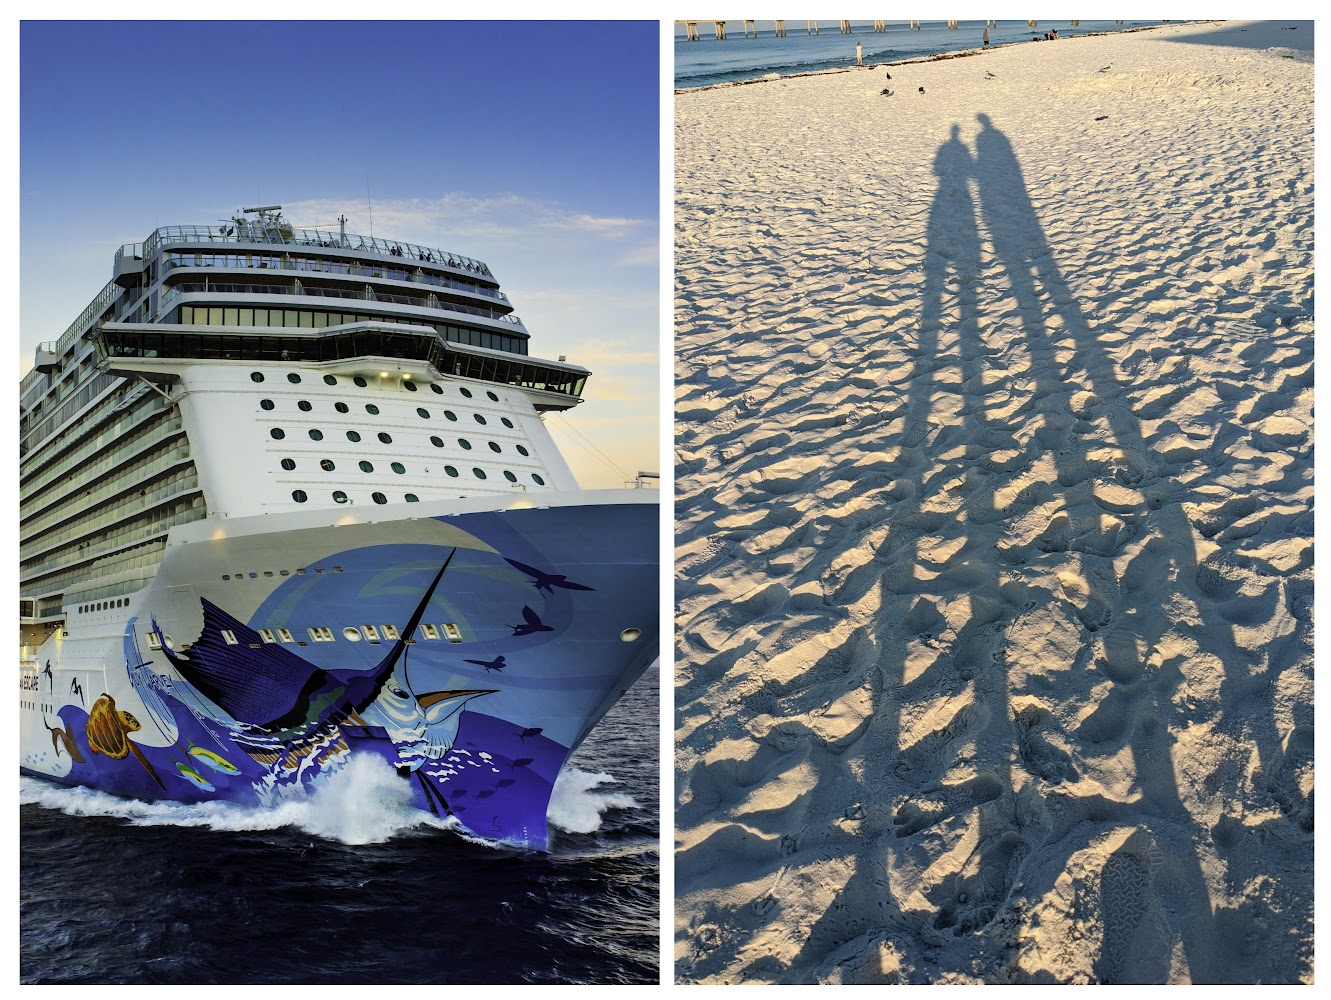
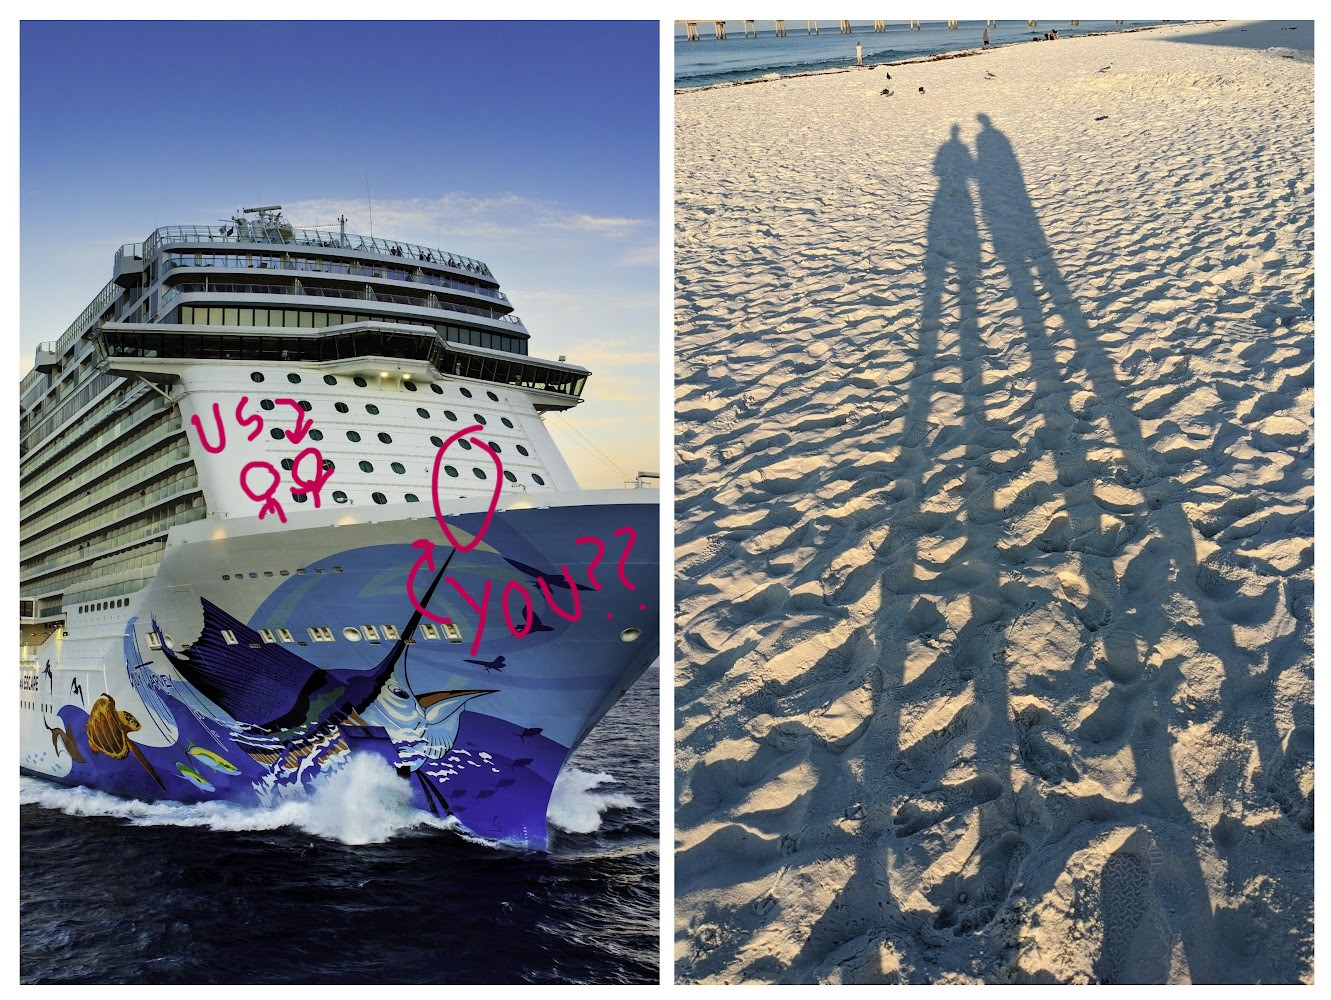
add photos

Changed region(s): [[0.308, 0.403, 0.4929, 0.651], [0.1232, 0.403, 0.2464, 0.527], [0.3696, 0.465, 0.4005, 0.496]]

diff --git a/index.html b/index.html
@@ -234,5 +234,15 @@
         </div>
       </div>
     </section>
+    <section>
+      <div class="myrow-halves">
+        <div class="mycol">
+          <img src="footer-1.jpg" class="img"></img>
+        </div>
+        <div class="mycol">
+          <img src="footer-2.jpg" class="img"></img>
+        </div>
+      </div>
+    </section>
   </body>
 </html>
